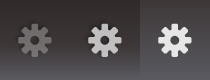
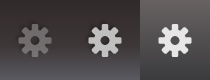
add to header
set up viewscores rollover, append gitignore to ignore old- prefix

diff --git a/js/ts.ui.js b/js/ts.ui.js
@@ -761,11 +761,11 @@ var PageHandler = function(){
 			$("#testStatusContainer").hide();
 		}
 		if ($("#scoreScreen").is(":visible")){
-			$(".viewScores").hide();
+			$(".viewScores").parent().hide();
 			$("#header .backToTest").show();			
 		}
 		else {
-			$(".viewScores").show();
+			$(".viewScores").parent().show();
 			$("#header .backToTest").hide();			
 		}
 		
@@ -945,27 +945,30 @@ $(document).ready(function() {
 	
 	$(document).keyup();
 		
-	var DropDown = function(){
+	var HoverBoard = function(target, board){
 		var isHovering = false;
+		var $link = $(target);
+		var $menu = $(board);
 		
-		$("#settingsLink").hover(
+		$link.hover(
 			
 			function(){
 				isHovering =  true;
-				var $menu = $("#settingsMenu");
-				var pos = $(this).offset();
-				var linkWidth = $(this).width();
-				var linkHeight = $(this).height();
+				var $this = $(this);
+				var pos = $this.offset();
+				var linkWidth = $this.width();
+				var linkHeight = $this.height();
 				var menuWidth = $menu.width();
+				$this.addClass("hover");
 				$menu.show()
-					.css({"top" : pos["top"] + linkHeight, "left": pos["left"] + (linkWidth - menuWidth)});
+					.css({"top" : pos["top"] + linkHeight, "left": pos["left"] + ((linkWidth - menuWidth) + 1)});
 			},
 			function(){ 		
 				isHovering = false;
 				hideWindow();				
 			}
 		);
-		$("#settingsMenu").hover(
+		$menu.hover(
 			function(){
 				isHovering = true;
 			},
@@ -974,7 +977,7 @@ $(document).ready(function() {
 				hideWindow();
 			}
 		);
-		
+		/* need hack for ie
 		$("#keyType").hover(
 			function(){
 				isHovering = true;
@@ -984,15 +987,18 @@ $(document).ready(function() {
 				hideWindow();
 			}
 		);
-		
+		*/
 		var hideIf = function(){
-			if (!isHovering)
-				$("#settingsMenu").hide()
+			if (!isHovering) {
+				$link.removeClass("hover");
+				$menu.hide();
+			}
 		};
 		
-		function hideWindow(){setTimeout(hideIf,350)};
+		function hideWindow(){setTimeout(hideIf,100)};
 	};
-	tip = new DropDown();
+	var settingsHover = new HoverBoard("#settingsLink", "#settingsMenu");
+	var scoresHover = new HoverBoard(".viewScores", "#scoresOver");
 });
 
 })();

diff --git a/index.html b/index.html
@@ -11,40 +11,6 @@
 <![endif]-->
 </head>
 <body>
-<div id="settingsMenu">
-	<div>
-		<table>
-			<tr>
-				<td>KEYBOARD</td>
-				<td>
-					<a id="optionQwerty" href="#"></a>
-				</td>
-			</tr>
-			<tr>
-				<td>TEST TYPE</td>
-				<td>
-					<a id="" href="#"></a>
-				</td>
-			</tr>
-			<tr>
-				<td>LESSON</td>
-				<select id="keyType" style="display:none"></select><!--temp until button is rigged -->
-
-
-				<td><select id="lessonId"></select></td>
-			</tr>
-		</table>
-		<!--
-		<ul>
-			<li>KEYBOARD</li>
-			<li>TEST TYPE</li>
-			<li>LESSON
-				<select id="keyType"></select>
-			</li>
-		</ul>
-		-->
-	</div>
-</div>
 <div id="header">
 	<div id="masthead">
 		<div id="logo">
@@ -153,5 +119,41 @@
 		<div class="clear"></div>
 	</div>
 </div>
+<div id="scoresOver">SCORES</div>
+<div id="settingsMenu">
+	<div>
+		<table>
+			<tr>
+				<td>KEYBOARD</td>
+				<td>
+					<a id="optionQwerty" href="#"></a>
+				</td>
+			</tr>
+			<tr>
+				<td>TEST TYPE</td>
+				<td>
+					<a id="" href="#"></a>
+				</td>
+			</tr>
+			<tr>
+				<td>LESSON</td>
+				<select id="keyType" style="display:none"></select><!--temp until button is rigged -->
+
+
+				<td><select id="lessonId"></select></td>
+			</tr>
+		</table>
+		<!--
+		<ul>
+			<li>KEYBOARD</li>
+			<li>TEST TYPE</li>
+			<li>LESSON
+				<select id="keyType"></select>
+			</li>
+		</ul>
+		-->
+	</div>
+</div>
+
 </body>
 </html>

diff --git a/style/main.css b/style/main.css
@@ -75,7 +75,7 @@ li {
 	height: 62px;
 }
 
-#settingsLink:hover, .viewScores:hover {
+#settingsLink.hover, .viewScores.hover {
 	background-position: top right;
 }
 #mainContainer {
@@ -316,12 +316,22 @@ li.wrongKey, #resultString span.wrongKey {
 	background: transparent url("img/buttonDvorak.png") 0 0 no-repeat;	
 }
 
-#settingsMenu {
+
+#settingsMenu, #scoresOver {
 	display: none;
 	position: absolute;
 	color: #FFF;
-	background: #3A3434;
+	font-size: 12px;
+	background: #3B3B3D;
 	text-align: left;
+	border-right: 1px solid #292929;
+	-moz-border-radius: 0 0 5px 5px;
+}
+
+#scoresOver {
+	width: 70px;
+	text-align: center;
+	padding-bottom: 10px;
 }
 
 #settingsMenu div {
